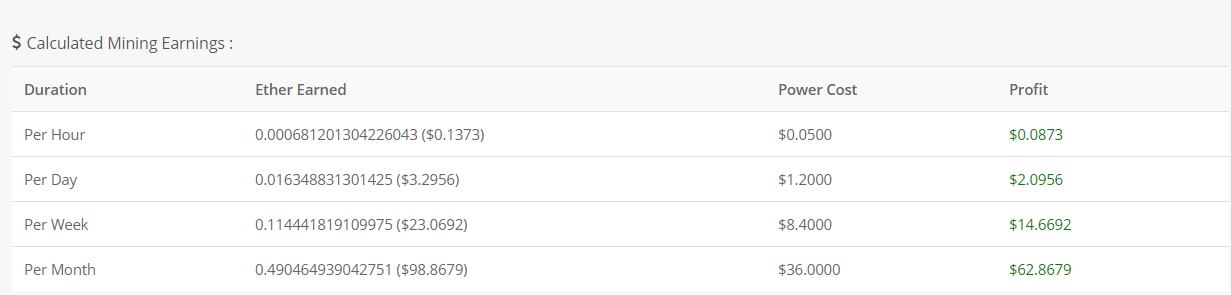
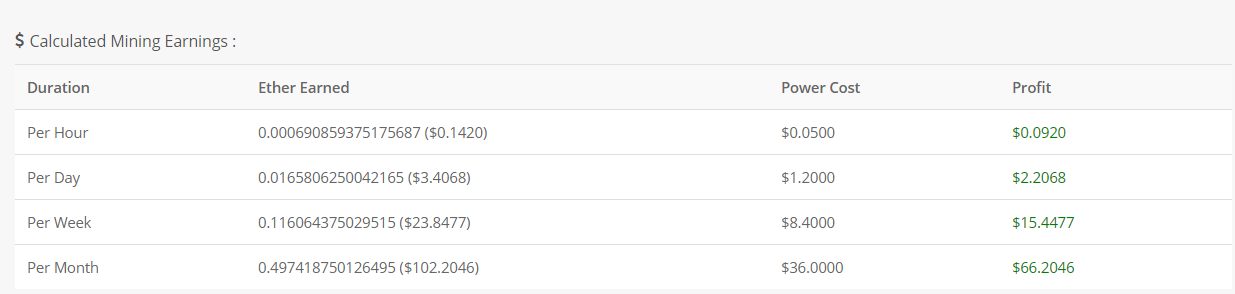
ethereum roi

diff --git a/pages/crypto-mining/ethereum-hardware.md b/pages/crypto-mining/ethereum-hardware.md
@@ -47,3 +47,8 @@ Never underestimate the power of the Radeon RX 400 series. The [Radeon RX 480](h
 
 ## Ethereum Mining Profitability 
 
+Before you spend money on an expensive mining GPU, you probably want to know if you'll see a good return on your investment. 
+
+Look no further. We are here to tell you that if you use the above mining GPUs, you'll see a great return on your investment. 
+
+![Ethereum Mining ROI](/img/cryptocurrency/ethereum-profit.png "Ethereum Mining ROI")
